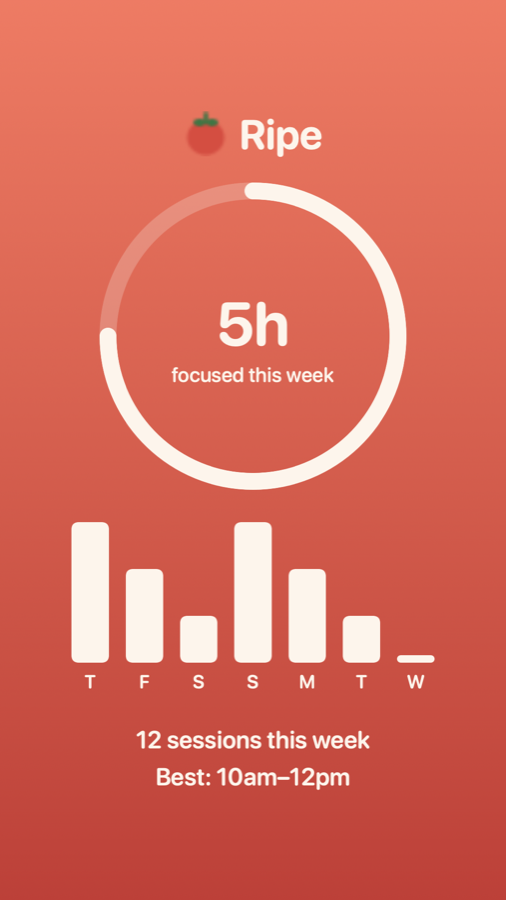
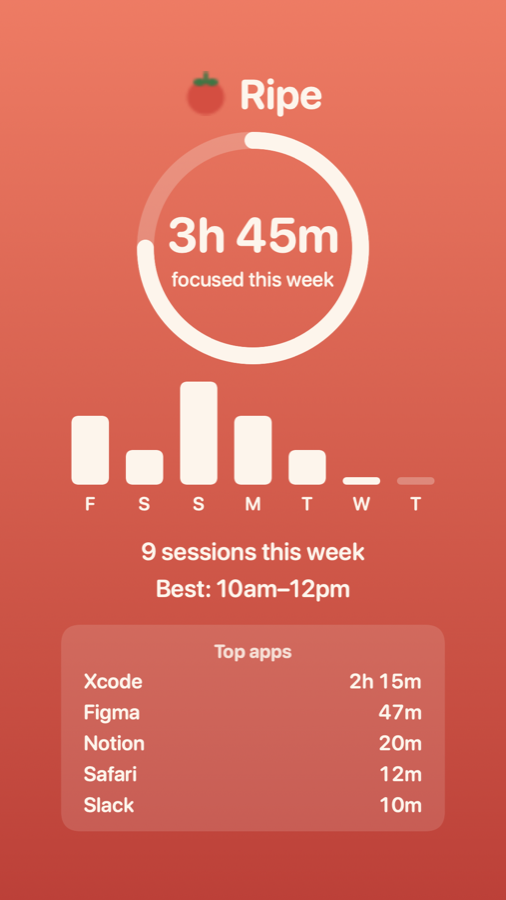
feat: choose which top apps appear on the share card
Statistics gets a checkbox per top app (ticked by default); the card
shows up to 5 ticked apps and tightens its layout to fit. Unticked apps
are remembered in settings.shareHiddenApps. Version 1.1.

Changed region(s): [[0.1186, 0.0622, 0.8893, 0.9333], [0.7708, 0.5289, 0.8597, 0.56]]

diff --git a/Sources/Pomodoro/ShareCardView.swift b/Sources/Pomodoro/ShareCardView.swift
@@ -7,8 +7,11 @@ struct ShareCardView: View {
     let data: ShareCardData
     private let cream = Color(red: 1, green: 0.96, blue: 0.92)
 
+    /// With apps on the card, the ring, bars and gaps shrink so everything fits in 1920pt.
+    private var compact: Bool { !data.apps.isEmpty }
+
     var body: some View {
-        VStack(spacing: 70) {
+        VStack(spacing: compact ? 48 : 70) {
             HStack(spacing: 24) {
                 Image(nsImage: TomatoImage.image(for: .idle)).resizable().frame(width: 96, height: 96)
                 Text("Ripe").font(.system(size: 88, weight: .bold, design: .rounded))
@@ -20,11 +23,11 @@ struct ShareCardView: View {
                     .rotationEffect(.degrees(-90))
                 VStack(spacing: 8) {
                     Text(TimeFormat.duration(data.weekSeconds))
-                        .font(.system(size: 130, weight: .bold, design: .rounded))
+                        .font(.system(size: compact ? 104 : 130, weight: .bold, design: .rounded))
                     Text("focused this week").font(.system(size: 44, weight: .medium, design: .rounded))
                 }
             }
-            .frame(width: 620, height: 620)
+            .frame(width: compact ? 460 : 620, height: compact ? 460 : 620)
             bars
             VStack(spacing: 18) {
                 Text("\(data.weekSessions) \(data.weekSessions == 1 ? "session" : "sessions") this week")
@@ -33,6 +36,7 @@ struct ShareCardView: View {
                 }
             }
             .font(.system(size: 52, weight: .semibold, design: .rounded))
+            if compact { apps }
         }
         .foregroundStyle(cream)
         .frame(width: 1080, height: 1920)
@@ -48,13 +52,31 @@ struct ShareCardView: View {
                 VStack(spacing: 16) {
                     RoundedRectangle(cornerRadius: 14)
                         .fill(cream.opacity(day.seconds > 0 ? 1 : 0.3))
-                        .frame(width: 80, height: max(16, 300 * CGFloat(day.seconds) / CGFloat(maxSeconds)))
+                        .frame(width: 80, height: max(16, (compact ? 220 : 300) * CGFloat(day.seconds) / CGFloat(maxSeconds)))
                     Text(symbols[Calendar.current.component(.weekday, from: day.day) - 1])
                         .font(.system(size: 40, weight: .semibold, design: .rounded))
                 }
             }
         }
-        .frame(height: 380, alignment: .bottom)
+        .frame(height: compact ? 290 : 380, alignment: .bottom)
+    }
+
+    private var apps: some View {
+        VStack(spacing: 14) {
+            Text("Top apps").font(.system(size: 40, weight: .bold, design: .rounded)).opacity(0.85)
+            ForEach(data.apps) { app in
+                HStack {
+                    Text(app.name).lineLimit(1).truncationMode(.tail)
+                    Spacer(minLength: 32)
+                    Text(TimeFormat.duration(app.seconds)).monospacedDigit()
+                }
+                .font(.system(size: 44, weight: .semibold, design: .rounded))
+            }
+        }
+        .padding(.horizontal, 48)
+        .padding(.vertical, 32)
+        .frame(width: 820)
+        .background(cream.opacity(0.15), in: RoundedRectangle(cornerRadius: 36))
     }
 }
 

diff --git a/Sources/Pomodoro/StatsView.swift b/Sources/Pomodoro/StatsView.swift
@@ -39,8 +39,10 @@ struct StatsView: View {
         .padding(20)
         .frame(width: 460)
         .onAppear { model.refreshSummary() } // "today" rolls over at midnight
-        .task(id: model.summary) { // re-render the card whenever the numbers change
-            cardURL = ShareCard.png(for: ShareCardData(records: model.records, now: Date()), now: Date())
+        .task(id: CardInputs(summary: model.summary, hiddenApps: model.settings.shareHiddenApps)) {
+            // re-render the card whenever the numbers or the ticked apps change
+            let data = ShareCardData(records: model.records, now: Date(), hiddenApps: model.settings.shareHiddenApps)
+            cardURL = ShareCard.png(for: data, now: Date())
         }
     }
 
@@ -66,6 +68,10 @@ struct StatsView: View {
 
     private func appRow(_ app: AppTime, max: Int) -> some View {
         HStack(spacing: 8) {
+            Toggle("Show \(app.name) on share card", isOn: shownOnCard(app.name))
+                .toggleStyle(.checkbox)
+                .labelsHidden()
+                .help("Show on share card")
             Text(app.name).frame(width: 120, alignment: .leading).lineLimit(1)
             GeometryReader { geo in
                 RoundedRectangle(cornerRadius: 3)
@@ -76,6 +82,15 @@ struct StatsView: View {
             Text(TimeFormat.duration(app.seconds)).monospacedDigit().frame(width: 60, alignment: .trailing)
         }
         .font(.callout)
+    }
+
+    private func shownOnCard(_ app: String) -> Binding<Bool> {
+        Binding(
+            get: { !model.settings.shareHiddenApps.contains(app) },
+            set: { shown in
+                if shown { model.settings.shareHiddenApps.remove(app) } else { model.settings.shareHiddenApps.insert(app) }
+            }
+        )
     }
 
     private func save(_ cardURL: URL) {
@@ -101,4 +116,9 @@ struct StatsView: View {
         .padding(12)
         .background(.quaternary.opacity(0.5), in: RoundedRectangle(cornerRadius: 8))
     }
+}
+
+private struct CardInputs: Equatable {
+    let summary: StatsSummary
+    let hiddenApps: Set<String>
 }

diff --git a/site/index.html b/site/index.html
@@ -165,7 +165,7 @@
       <div class="feature"><span class="emoji">🍅</span><b>Work, break, long break</b><p>Set the lengths and how many rounds. Sounds and notifications when a phase ends.</p></div>
       <div class="feature"><span class="emoji">💤</span><b>Pauses when you're away</b><p>Stops counting when you step away from the keyboard or your Mac sleeps, and resumes when you're back.</p></div>
       <div class="feature"><span class="emoji">📊</span><b>Focus insights</b><p>Your best focus hours and which apps you focused in, this week.</p></div>
-      <div class="feature"><span class="emoji">📸</span><b>Share your week</b><p>A ready-made Instagram Story image of your week, with AirDrop to your phone.</p></div>
+      <div class="feature"><span class="emoji">📸</span><b>Share your week</b><p>A ready-made Instagram Story image of your week. You pick which apps appear on it.</p></div>
       <div class="feature"><span class="emoji">🔒</span><b>Private by design</b><p>No account, no server. Everything stays on your Mac, and app tracking can be turned off.</p></div>
       <div class="feature"><span class="emoji">🚀</span><b>Launch at login</b><p>Starts with your Mac so the tomato is always there.</p></div>
     </div>
@@ -183,10 +183,10 @@
 
   <section class="wrap">
     <div class="split">
-      <img class="shot card" src="card.png" width="506" height="900" alt="A share card showing a week's focus time, a 7-day bar chart and best focus hours" loading="lazy">
+      <img class="shot card" src="card.png" width="506" height="900" alt="A share card showing a week's focus time, a 7-day bar chart, best focus hours and top apps" loading="lazy">
       <div class="text">
         <h2>Post your week</h2>
-        <p class="lead">One click makes a 1080×1920 Story image of your week. App names never appear on it.</p>
+        <p class="lead">One click makes a 1080×1920 Story image of your week, with your top apps if you like. Untick any app in Statistics to keep it off the card.</p>
       </div>
     </div>
   </section>

diff --git a/Tests/PomodoroCoreTests/ShareCardDataTests.swift b/Tests/PomodoroCoreTests/ShareCardDataTests.swift
@@ -24,4 +24,36 @@ final class ShareCardDataTests: XCTestCase {
         XCTAssertEqual(data.days.last?.seconds, 1500)
         XCTAssertEqual(data.bestHoursStart, 9)
     }
+
+    private func appRecords(now: Date, calendar: Calendar) -> [WorkRecord] {
+        let start = calendar.date(byAdding: .hour, value: -3, to: now)!
+        return [
+            WorkRecord(start: start, seconds: 3000, completed: true,
+                       apps: ["Xcode": 1200, "Figma": 700, "Slack": 500, "Safari": 300, "Notes": 200, "Mail": 100]),
+        ]
+    }
+
+    func testAppsAreTheTopFiveWhenNothingIsHidden() {
+        var calendar = Calendar(identifier: .gregorian)
+        calendar.timeZone = TimeZone(identifier: "UTC")!
+        let now = calendar.date(from: DateComponents(year: 2026, month: 10, day: 10, hour: 18))!
+        let data = ShareCardData(records: appRecords(now: now, calendar: calendar), now: now, calendar: calendar)
+        XCTAssertEqual(data.apps.map(\.name), ["Xcode", "Figma", "Slack", "Safari", "Notes"])
+        XCTAssertEqual(data.apps.first?.seconds, 1200)
+    }
+
+    func testHiddenAppsAreLeftOffWithoutPullingInTheSixth() {
+        var calendar = Calendar(identifier: .gregorian)
+        calendar.timeZone = TimeZone(identifier: "UTC")!
+        let now = calendar.date(from: DateComponents(year: 2026, month: 10, day: 10, hour: 18))!
+        let data = ShareCardData(records: appRecords(now: now, calendar: calendar), now: now,
+                                 hiddenApps: ["Slack", "Xcode"], calendar: calendar)
+        XCTAssertEqual(data.apps.map(\.name), ["Figma", "Safari", "Notes"])
+    }
+
+    func testAppsEmptyWithoutAppData() {
+        let now = Date()
+        let data = ShareCardData(records: [WorkRecord(start: now, seconds: 1500, completed: true)], now: now)
+        XCTAssertEqual(data.apps, [])
+    }
 }

diff --git a/Sources/PomodoroCore/ShareCardData.swift b/Sources/PomodoroCore/ShareCardData.swift
@@ -1,18 +1,21 @@
 import Foundation
 
-/// The numbers on the Instagram Story card. Deliberately has no app names.
+/// The numbers on the Instagram Story card. Apps are the Statistics top apps minus the ones the user hid.
 public struct ShareCardData: Equatable {
     public let weekSeconds: Int
     public let weekSessions: Int
     public let days: [DayTotal]
     public let bestHoursStart: Int?
+    public let apps: [AppTime]
 
-    public init(records: [WorkRecord], now: Date, calendar: Calendar = .current) {
+    public init(records: [WorkRecord], now: Date, hiddenApps: Set<String> = [], calendar: Calendar = .current) {
         let summary = StatsSummary(records: records, now: now, calendar: calendar)
         let firstDay = summary.last7Days[0].day
         weekSeconds = summary.weekSeconds
         weekSessions = records.filter { $0.completed && calendar.startOfDay(for: $0.start) >= firstDay }.count
         days = summary.last7Days
         bestHoursStart = FocusInsights.bestHours(records: records, calendar: calendar)
+        // Filter after taking the top 5 so the card only ever shows apps the user could see and untick.
+        apps = FocusInsights.topApps(records: records, now: now, calendar: calendar).filter { !hiddenApps.contains($0.name) }
     }
 }

diff --git a/Sources/PomodoroCore/PomodoroSettings.swift b/Sources/PomodoroCore/PomodoroSettings.swift
@@ -14,6 +14,8 @@ public struct PomodoroSettings: Codable, Equatable {
     public var longBreakEvery = 4
     public var hotkeyEnabled = true
     public var appTrackingEnabled = true
+    /// Apps the user unticked for the share card; empty means every top app is shown.
+    public var shareHiddenApps: Set<String> = []
 
     public static let workRange = 1...180
     public static let breakRange = 1...60
@@ -45,6 +47,7 @@ public struct PomodoroSettings: Codable, Equatable {
         longBreakEvery = try container.decodeIfPresent(Int.self, forKey: .longBreakEvery) ?? fallback.longBreakEvery
         hotkeyEnabled = try container.decodeIfPresent(Bool.self, forKey: .hotkeyEnabled) ?? fallback.hotkeyEnabled
         appTrackingEnabled = try container.decodeIfPresent(Bool.self, forKey: .appTrackingEnabled) ?? fallback.appTrackingEnabled
+        shareHiddenApps = try container.decodeIfPresent(Set<String>.self, forKey: .shareHiddenApps) ?? fallback.shareHiddenApps
     }
 
     public func clamped() -> PomodoroSettings {

diff --git a/Tests/PomodoroCoreTests/SettingsStoreTests.swift b/Tests/PomodoroCoreTests/SettingsStoreTests.swift
@@ -58,4 +58,17 @@ final class SettingsStoreTests: XCTestCase {
         defaults.set(Data(#"{"workMinutes":40}"#.utf8), forKey: SettingsStore.key)
         XCTAssertTrue(SettingsStore(defaults: defaults).load().appTrackingEnabled)
     }
+
+    func testShareHiddenAppsDefaultsEmptyWhenMissing() {
+        defaults.set(Data(#"{"workMinutes":40}"#.utf8), forKey: SettingsStore.key)
+        XCTAssertEqual(SettingsStore(defaults: defaults).load().shareHiddenApps, [])
+    }
+
+    func testShareHiddenAppsRoundTrips() {
+        var settings = PomodoroSettings()
+        settings.shareHiddenApps = ["Slack"]
+        let store = SettingsStore(defaults: defaults)
+        store.save(settings)
+        XCTAssertEqual(store.load().shareHiddenApps, ["Slack"])
+    }
 }

diff --git a/Sources/Pomodoro/SettingsView.swift b/Sources/Pomodoro/SettingsView.swift
@@ -59,7 +59,7 @@ struct SettingsView: View {
             }
             Section("Insights") {
                 Toggle("Track which app I'm focusing in", isOn: $model.settings.appTrackingEnabled)
-                Text("Only app names and seconds, stored on this Mac. Shown in Statistics, never on the share card.")
+                Text("Only app names and seconds, stored on this Mac. Shown in Statistics, where you choose which apps appear on the share card.")
                     .font(.caption)
                     .foregroundStyle(.secondary)
             }
